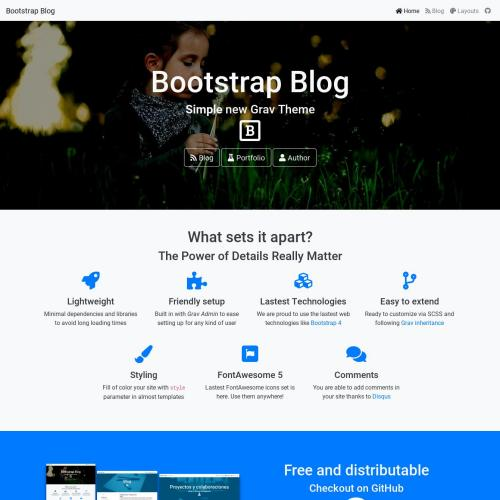
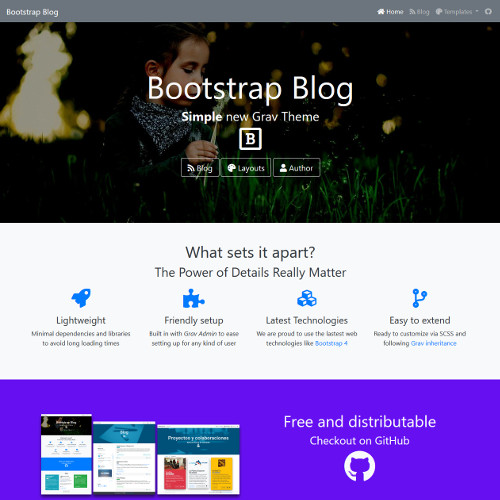
Release changes 1.1.8

diff --git a/CHANGELOG.md b/CHANGELOG.md
@@ -1,3 +1,12 @@
+# v1.1.8
+## 24-12-2018
+1. [](#bugfix)
+  * Fixed show_more translation (blog modular template)
+2. [](#improved)
+  * Assets css/js in collection named `bootstrap-blog`
+  * Showcase parameter `image_filters` renamed to `image_actions`
+  * Dropdown menu can be splitted using `split_menu: true`
+
 # v1.1.7
 ## 26-11-2018
 1. [](#bugfix)
